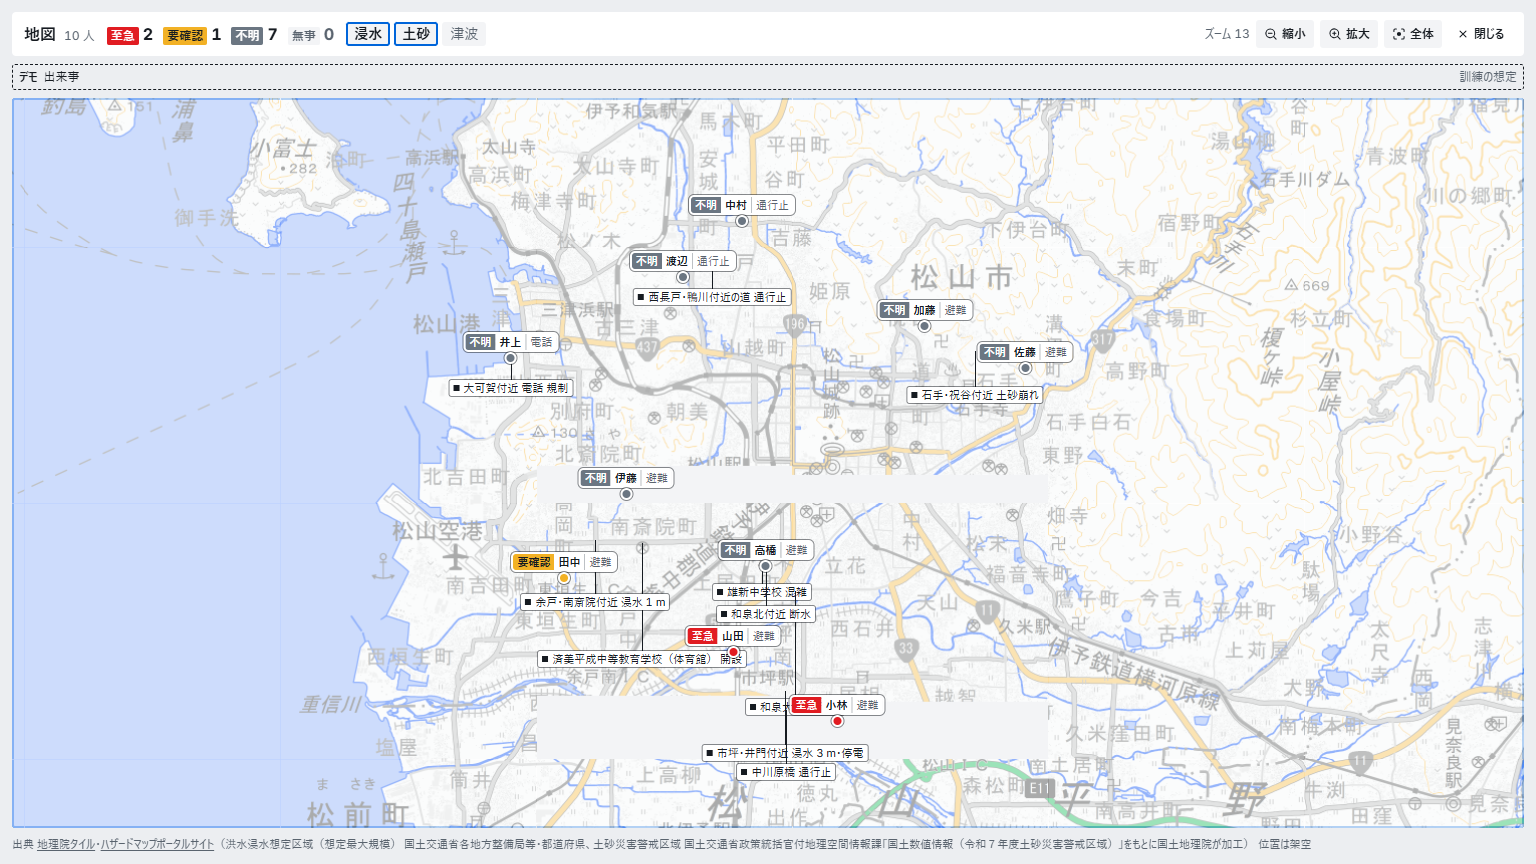
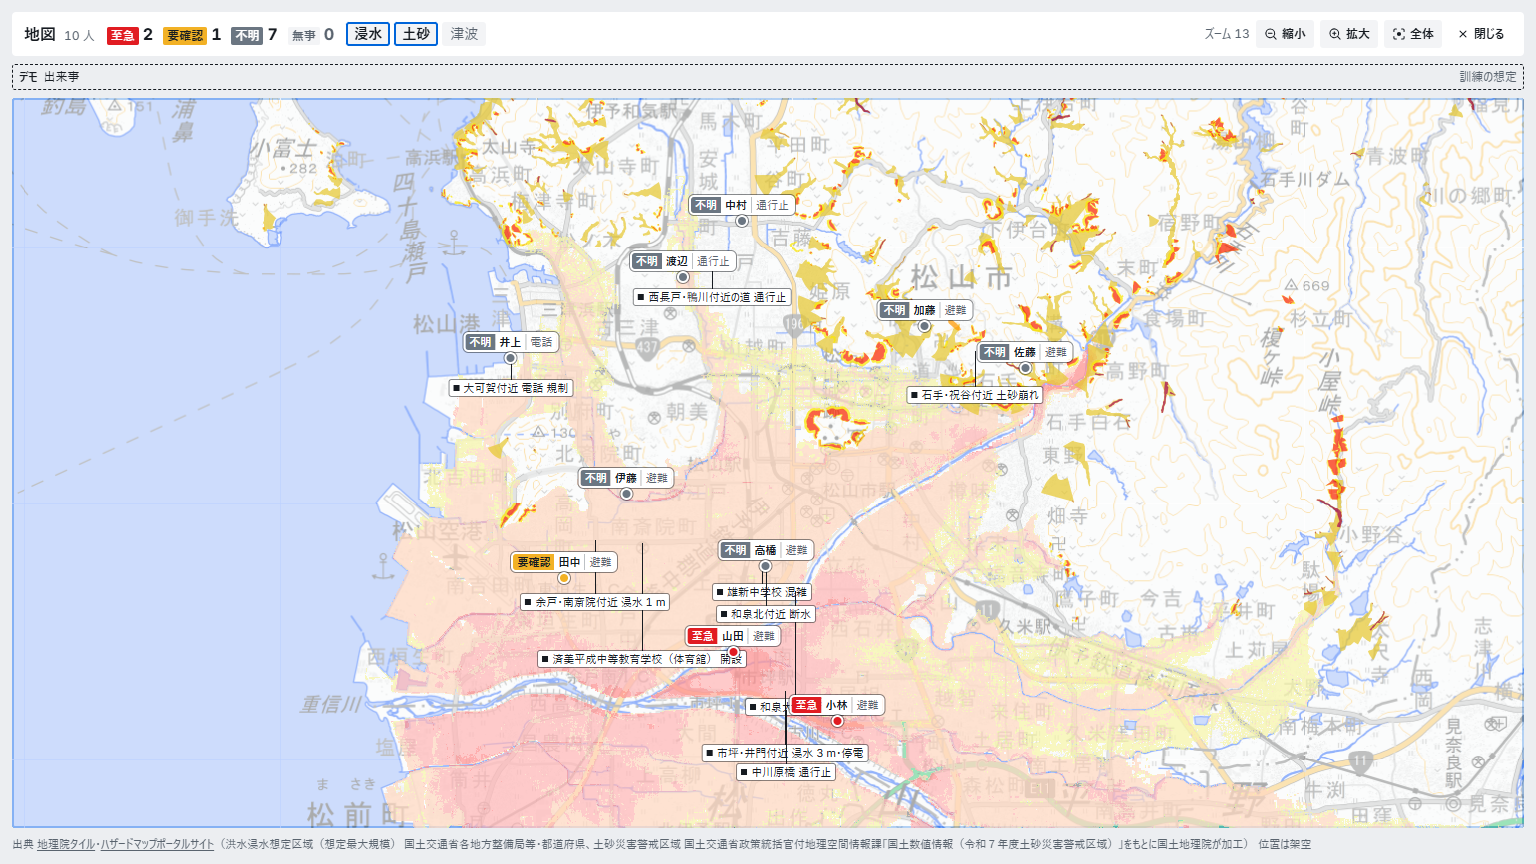
小さな地図で言葉を置けない印は四角の点で場所を示す

diff --git a/components/map/WorldMarks.tsx b/components/map/WorldMarks.tsx
@@ -1,6 +1,6 @@
 // 地図の場所の印（T170。仮想の訓練の世界の出来事）。人のピンと見分けるため四角の点で、人の状態の色を使わない。タイルの上では地の色の差が効かないので、ピンと同じ細い線で囲む。
 // 押せない（地図のドラッグを奪わない）。印はピンの点の下に置き、人の名前の印やほかの印に重なれば下へ送って細い線で元の所とつなぐ（lib/map/marks.ts の layoutMarks）。
-// 小さな地図で置けない印は描かず、右下に「他 N」（全画面と場所別の一覧に全部ある）。
+// 小さな地図で言葉を置けない印は四角の点だけにし、右下に「他 N」（全画面と場所別の一覧に全部ある）。
 // 出来事は訓練の想定なので、印があるときは地図の上に「デモ」の帯（MarkBand）。
 
 import { labelWidth } from "@/lib/map/cluster";
@@ -49,7 +49,10 @@ export function WorldMarks({
   const hidden = placed.filter((p) => drops[p.mark.id] === null).length;
   const shown = placed.flatMap(({ mark, text, left, top }) => {
     const drop = drops[mark.id];
-    if (drop === null || drop === undefined) return [];
+    // 言葉を置けない印も、場所は四角の点で示す
+    if (drop === null || drop === undefined) {
+      return [<span key={mark.id} title={mark.title} className="pointer-events-none absolute z-[5] size-2 -translate-x-1/2 -translate-y-1/2 bg-ink outline-1 outline-panel" style={{ left: `${left}%`, top: `${top}%` }} data-world-mark={mark.id} data-world-mark-dot aria-hidden />];
+    }
     return [(
       <span key={mark.id} className="pointer-events-none absolute z-[5]" style={{ left: `${left}%`, top: `${top}%` }} data-world-mark={mark.id} data-drop={drop}>
         {drop > 0 && <span className="absolute top-0 left-0 w-px bg-ink" style={{ height: drop }} aria-hidden />}

diff --git a/lib/map/marks.ts b/lib/map/marks.ts
@@ -31,7 +31,7 @@ const hit = (a: Box, b: Box) => a.x0 < b.x1 && b.x0 < a.x1 && a.y0 < b.y1 && b.y
 /**
  * 印を元の点の下に置き、ピンの名前の印やほかの印に重なれば下へ送る。印の id → 下へ送る長さ（px）。
  * 点と幅は枠の px。幅は字の数からの見積り（描く前に測らない）。
- * maxDrop（小さな地図）を超えて送る印と枠の下にはみ出す印は null（描かない。全画面と場所別の一覧に全部ある）
+ * maxDrop（小さな地図）を超えて送る印と枠の下にはみ出す印は null（言葉を置かない。全画面と場所別の一覧に全部ある）
  */
 export function layoutMarks(
   marks: ReadonlyArray<{ id: string; x: number; y: number; text: string }>,

diff --git a/docs/progress/t170.md b/docs/progress/t170.md
@@ -63,7 +63,7 @@
 | 面の見出し | 場所別 |
 | 場所別の中 | 地域・川・出典 |
 | 地図の上の帯 | デモ・出来事・訓練の想定 |
-| 地図の印 | 他 N（小さな地図で置けない印の数）。出来事の言葉は 浸水 N m・土砂崩れ・停電・断水・電話 規制・通行止・休止・開設・混雑・満員・閉鎖 |
+| 地図の印 | 他 N（小さな地図で言葉を置けない印の数。場所は四角の点）。出来事の言葉は 浸水 N m・土砂崩れ・停電・断水・電話 規制・通行止・休止・開設・混雑・満員・閉鎖 |
 | 区画の言葉 | 市坪・井門付近、余戸・南斎院付近、和泉北付近、石手・祝谷付近、大可賀付近、西長戸・鴨川付近 |
 
 ## 確かめ
